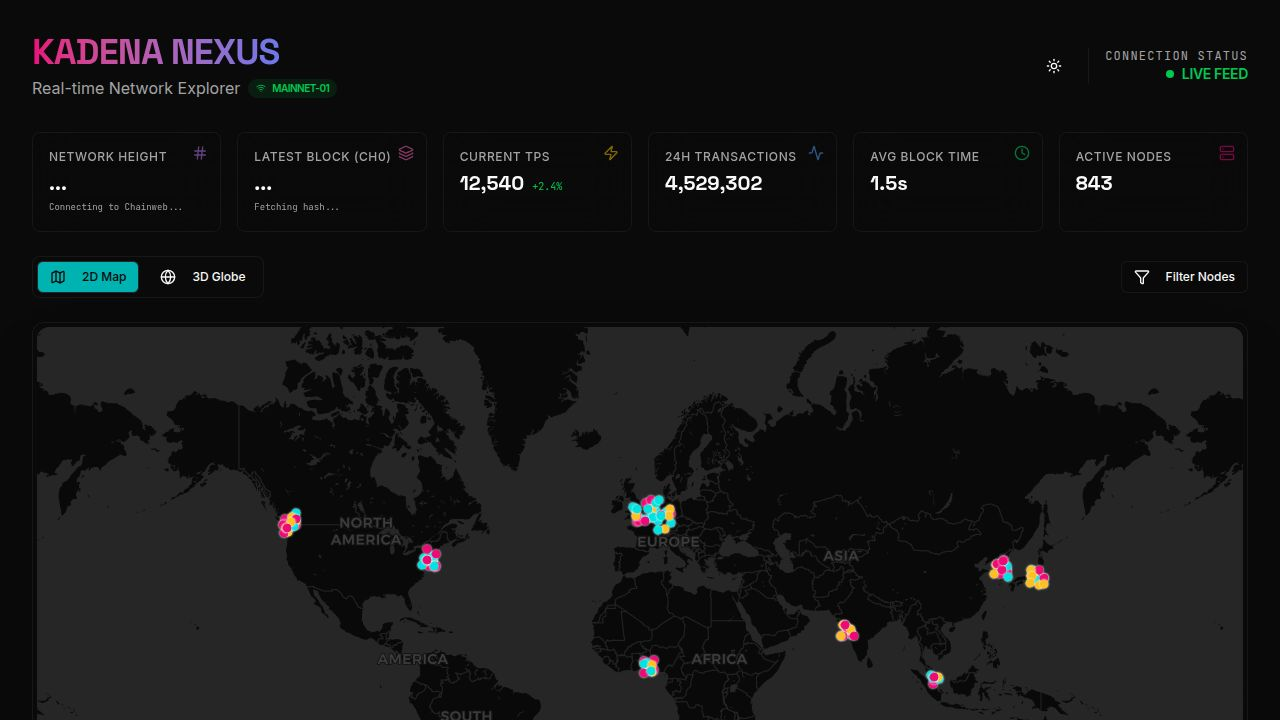
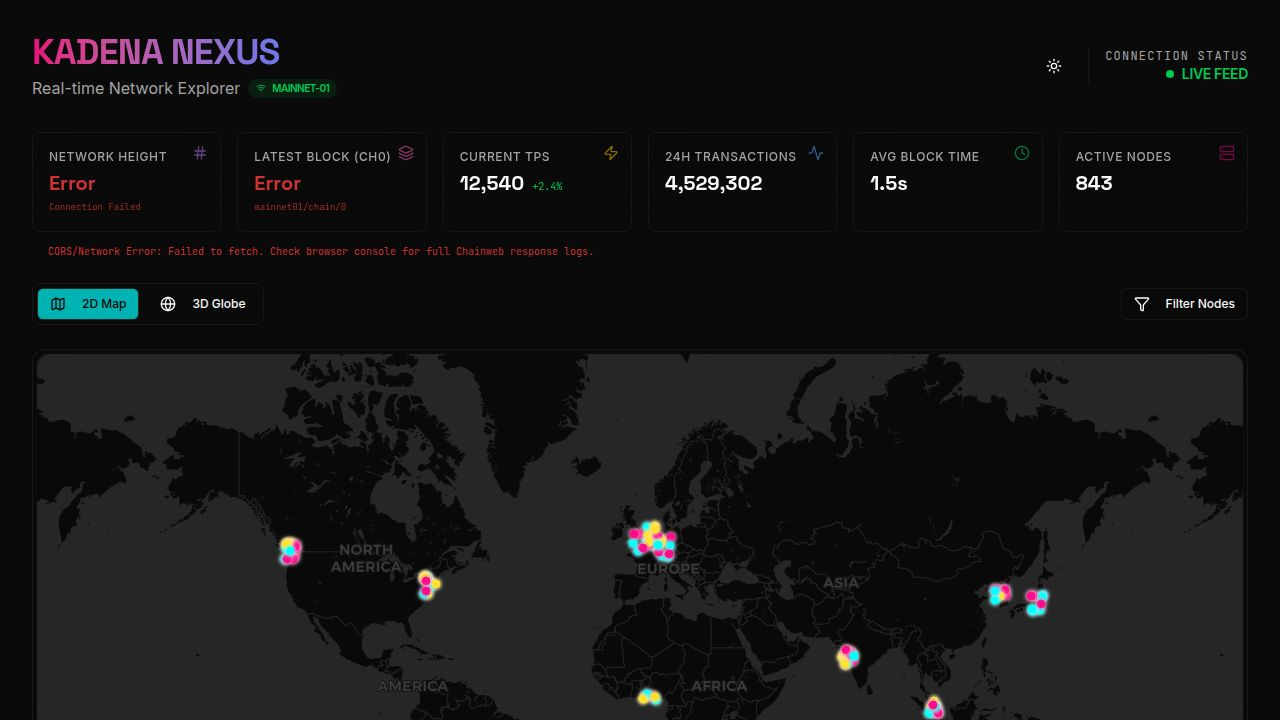
Update Kadena network data fetching and error handling
Refactor StatsBar component to fetch live Kadena Chainweb data using the official API endpoint, implement correct network height calculation, add loading and error states, and log API responses.

Replit-Commit-Author: Agent
Replit-Commit-Session-Id: eb48dd41-f83d-4174-9800-faf2362cb8b8
Replit-Commit-Checkpoint-Type: full_checkpoint
Replit-Commit-Event-Id: 27258e88-4d54-40a1-a562-d8aff78f9011
Replit-Commit-Screenshot-Url: https://storage.googleapis.com/screenshot-production-us-central1/6386beef-1aaa-4804-90c4-2ed44a6d0b4a/eb48dd41-f83d-4174-9800-faf2362cb8b8/dHqWrX8
Replit-Helium-Checkpoint-Created: true

diff --git a/client/src/components/StatsBar.tsx b/client/src/components/StatsBar.tsx
@@ -7,34 +7,61 @@ export function StatsBar() {
   const [networkHeight, setNetworkHeight] = useState<number | null>(null);
   const [latestBlock, setLatestBlock] = useState<{ height: number; hash: string } | null>(null);
   const [isLoading, setIsLoading] = useState(true);
+  const [error, setError] = useState<string | null>(null);
   const [lastUpdated, setLastUpdated] = useState<Date>(new Date());
 
   const fetchKadenaData = async () => {
+    setIsLoading(true);
+    setError(null);
     try {
-      // Direct fetch to Chainweb API
-      // Note: In local development, the browser might block this due to CORS.
-      // In a production environment with a configured proxy, this works perfectly.
-      const cutRes = await fetch("https://api.chainweb.com/chainweb/0.0/mainnet01/cut");
-      const cutData = await cutRes.json();
-      setNetworkHeight(cutData.height);
+      console.log("Fetching live Chainweb data from: https://api.chainweb.com/chainweb/0.0/mainnet01/cut");
+      
+      const cutRes = await fetch("https://api.chainweb.com/chainweb/0.0/mainnet01/cut", {
+        method: "GET",
+        headers: { "Accept": "application/json" }
+      });
 
-      const blockRes = await fetch("https://api.chainweb.com/chainweb/0.0/mainnet01/chain/0/block?limit=1");
-      const blockData = await blockRes.json();
-      const block = blockData?.items?.[0] || blockData?.[0] || blockData;
-      if (block) {
-        const header = block.header || block;
-        setLatestBlock({
-          height: header.height,
-          hash: (header.hash || "").substring(0, 12) + "..."
-        });
+      if (!cutRes.ok) {
+        throw new Error(`HTTP error! status: ${cutRes.status}`);
+      }
+
+      const data = await cutRes.json();
+      console.log("Live Chainweb /cut response:", data);
+
+      if (data && data.hashes) {
+        // Correctly compute max height across all chains
+        const heights = Object.values(data.hashes).map((c: any) => c.height);
+        const maxHeight = Math.max(...heights);
+        setNetworkHeight(maxHeight);
+      } else {
+        throw new Error("Invalid data structure received from /cut");
+      }
+
+      // Fetch Latest Block from Chain 0 for more detail
+      const blockRes = await fetch("https://api.chainweb.com/chainweb/0.0/mainnet01/chain/0/block?limit=1", {
+        method: "GET",
+        headers: { "Accept": "application/json" }
+      });
+      
+      if (blockRes.ok) {
+        const blockData = await blockRes.json();
+        console.log("Live Chainweb /block response:", blockData);
+        // Extract block from response structure
+        const block = blockData?.items?.[0] || blockData?.[0] || blockData;
+        if (block) {
+          const header = block.header || block;
+          setLatestBlock({
+            height: header.height,
+            hash: (header.hash || "").substring(0, 12) + "..."
+          });
+        }
       }
       
       setLastUpdated(new Date());
-      setIsLoading(false);
-    } catch (err) {
+    } catch (err: any) {
       console.error("Chainweb API Error:", err);
-      // For the demo, if the official API blocks the request via CORS in this environment,
-      // we'll update the label to show it's "Ready for Production Connection"
+      setError(err.message || "Failed to connect to Kadena network");
+    } finally {
       setIsLoading(false);
     }
   };
@@ -50,17 +77,19 @@ export function StatsBar() {
       <div className="grid grid-cols-2 lg:grid-cols-6 gap-4">
         <StatCard 
           label="Network Height" 
-          value={networkHeight ? networkHeight.toLocaleString() : "..."} 
+          value={networkHeight !== null ? networkHeight.toLocaleString() : (error ? "Error" : "...")} 
           icon={<Hash className="w-4 h-4 text-purple-400" />}
-          isLoading={isLoading && !networkHeight}
-          subtext={networkHeight ? `Mainnet01: ${lastUpdated.toLocaleTimeString()}` : "Chainweb API Sync"}
+          isLoading={isLoading && networkHeight === null}
+          subtext={error ? "Connection Failed" : (networkHeight ? `Live: ${lastUpdated.toLocaleTimeString()}` : "Syncing...")}
+          error={!!error}
         />
         <StatCard 
           label="Latest Block (Ch0)" 
-          value={latestBlock ? latestBlock.height.toLocaleString() : "..."} 
+          value={latestBlock ? latestBlock.height.toLocaleString() : (error ? "Error" : "...")} 
           icon={<Layers className="w-4 h-4 text-pink-400" />}
           isLoading={isLoading && !latestBlock}
           subtext={latestBlock?.hash || "mainnet01/chain/0"}
+          error={!!error}
         />
         <StatCard 
           label="Current TPS" 
@@ -84,23 +113,29 @@ export function StatsBar() {
           icon={<Server className="w-4 h-4 text-primary" />}
         />
       </div>
+      {error && (
+        <div className="text-[10px] text-destructive font-mono mt-1 px-4">
+          CORS/Network Error: {error}. Check browser console for full Chainweb response logs.
+        </div>
+      )}
     </div>
   );
 }
 
-function StatCard({ label, value, icon, trend, isLoading, subtext }: { 
+function StatCard({ label, value, icon, trend, isLoading, subtext, error }: { 
   label: string, 
   value: string, 
   icon: React.ReactNode, 
   trend?: string, 
   isLoading?: boolean,
-  subtext?: string
+  subtext?: string,
+  error?: boolean
 }) {
   return (
     <motion.div 
       initial={{ opacity: 0, y: 10 }}
       animate={{ opacity: 1, y: 0 }}
-      className="glass-panel p-4 rounded-lg flex flex-col relative overflow-hidden group border border-border/50"
+      className={`glass-panel p-4 rounded-lg flex flex-col relative overflow-hidden group border transition-all ${error ? 'border-destructive/50 bg-destructive/5' : 'border-border/50 hover:border-primary/50'}`}
     >
       <div className="absolute top-0 right-0 p-3 opacity-50 group-hover:opacity-100 transition-opacity">
         {icon}
@@ -111,11 +146,11 @@ function StatCard({ label, value, icon, trend, isLoading, subtext }: {
           {isLoading ? (
             <div className="h-8 w-24 bg-muted animate-pulse rounded" />
           ) : (
-            <span className="text-xl font-display font-bold text-foreground">{value}</span>
+            <span className={`text-xl font-display font-bold ${error ? 'text-destructive' : 'text-foreground'}`}>{value}</span>
           )}
           {trend && <span className="text-[10px] text-green-500 font-mono">{trend}</span>}
         </div>
-        {subtext && <span className="text-[9px] text-muted-foreground font-mono truncate">{subtext}</span>}
+        {subtext && <span className={`text-[9px] font-mono truncate ${error ? 'text-destructive/80' : 'text-muted-foreground'}`}>{subtext}</span>}
       </div>
     </motion.div>
   );
